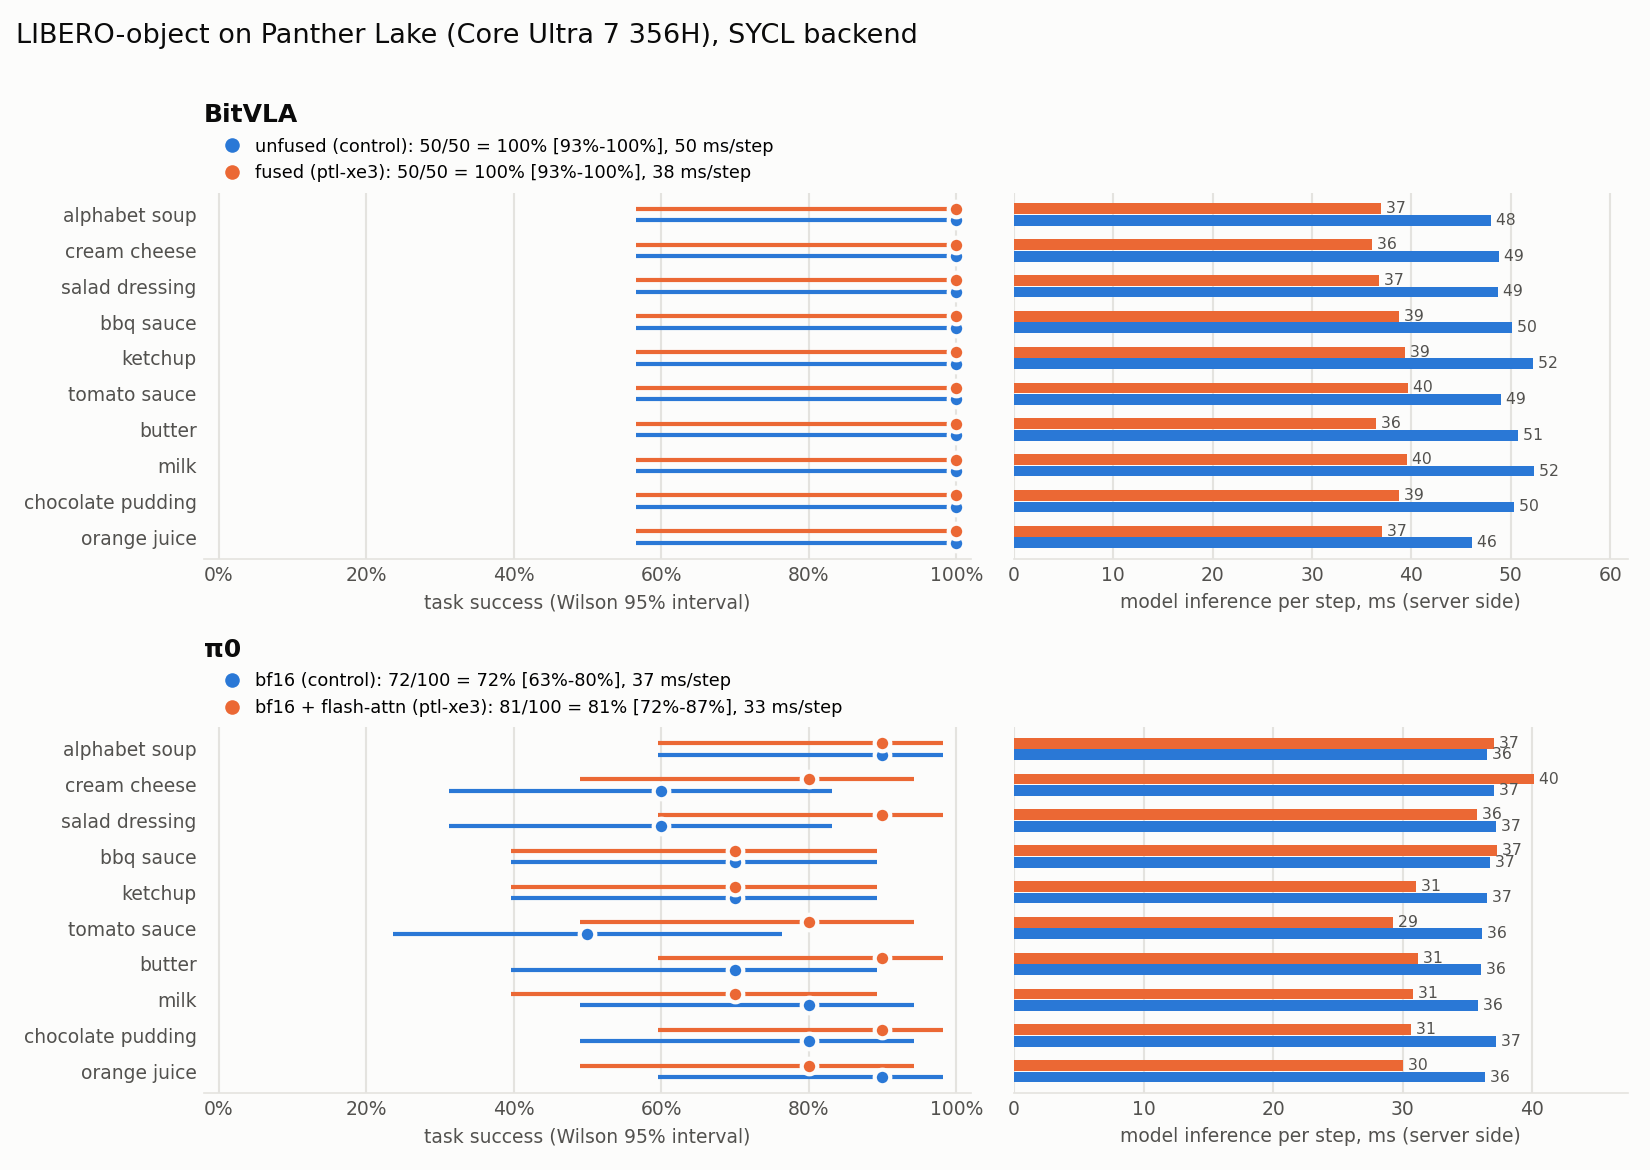
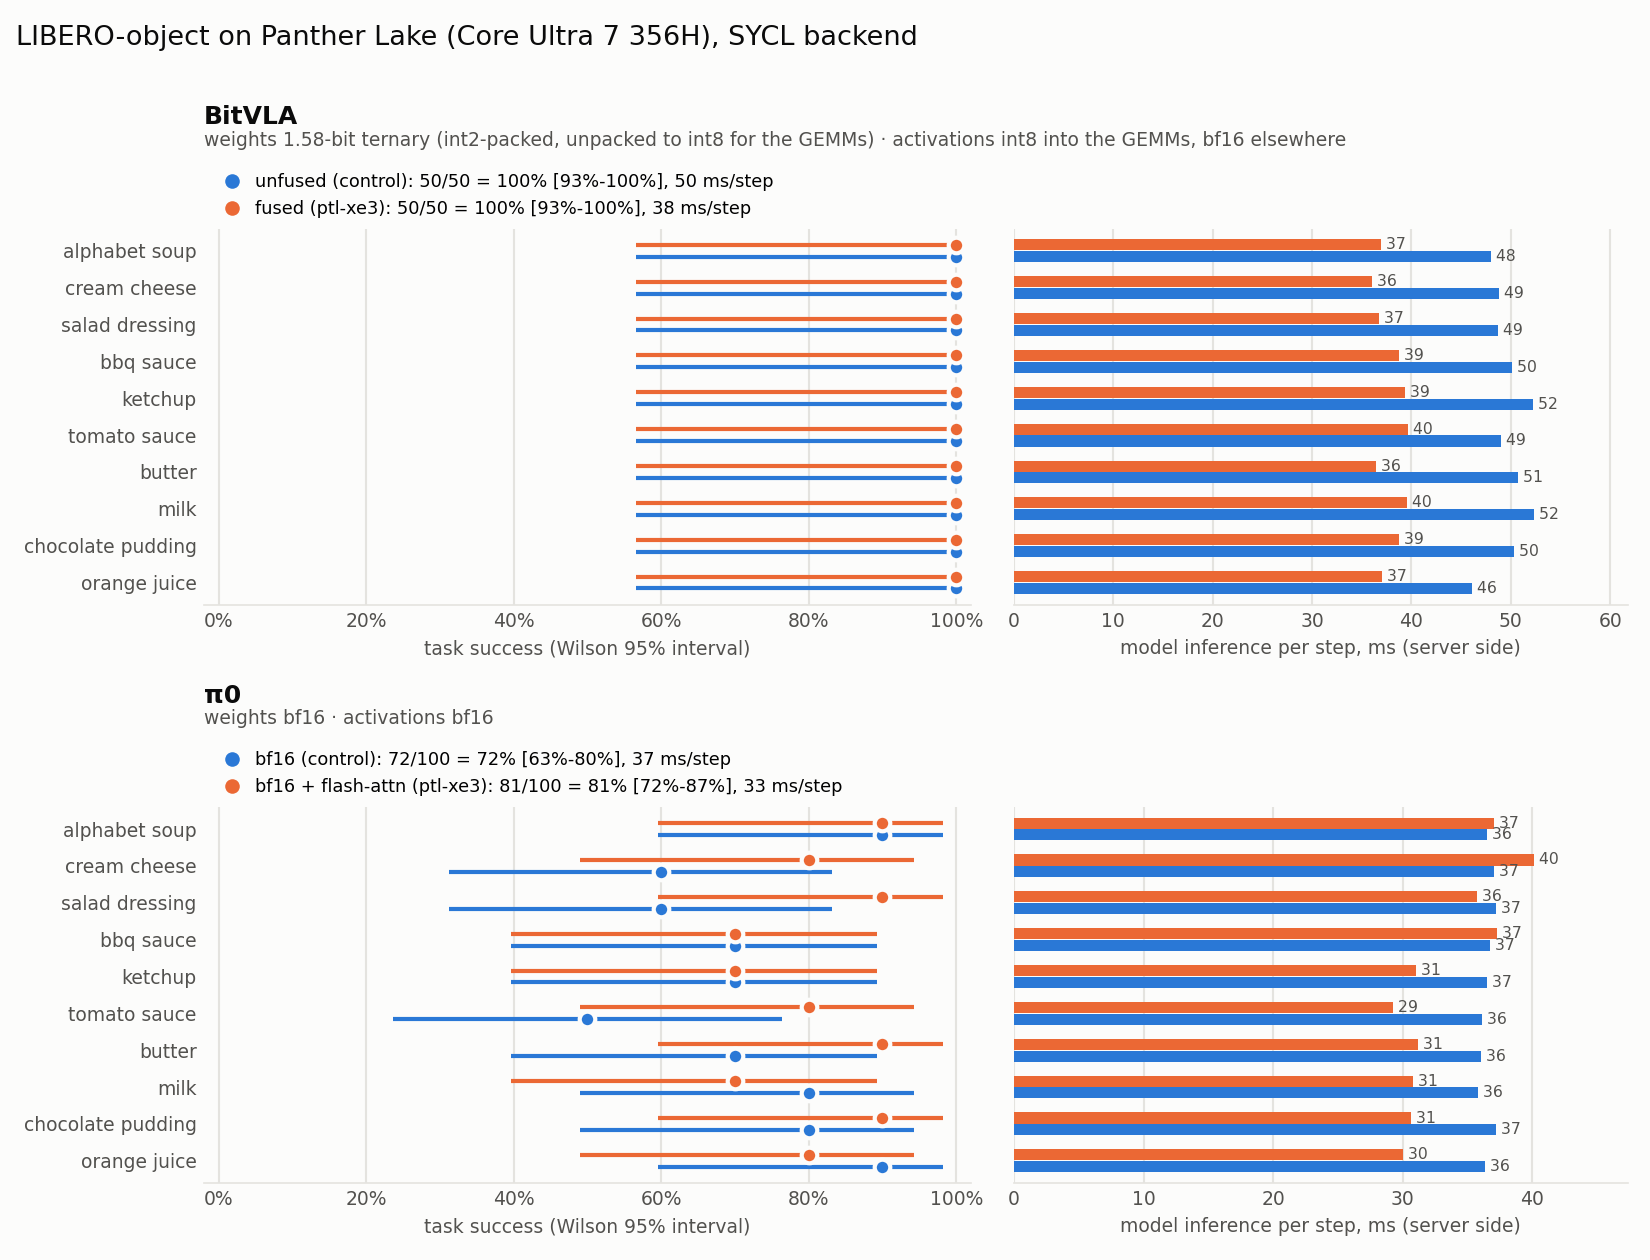
plot_libero_ptl: show each model's precision under its name
BitVLA: 1.58-bit ternary weights (int2-packed, unpacked to int8 for the
GEMMs), int8 activations into the GEMMs, bf16 elsewhere. pi0 / Evo-1:
bf16 weights and activations. Overridable with --precision MODEL=TEXT.

diff --git a/scripts/plot_libero_ptl.py b/scripts/plot_libero_ptl.py
@@ -52,6 +52,15 @@ wilson, load_arm, totals = _lb.wilson, _lb.load_arm, _lb.totals
 TASKS = ["alphabet soup", "cream cheese", "salad dressing", "bbq sauce", "ketchup",
          "tomato sauce", "butter", "milk", "chocolate pudding", "orange juice"]
 
+# What each model computes in, shown under its name. --precision MODEL=TEXT
+# overrides or adds one.
+PRECISION = {
+    "BitVLA": "weights 1.58-bit ternary (int2-packed, unpacked to int8 for the GEMMs) · "
+              "activations int8 into the GEMMs, bf16 elsewhere",
+    "π0": "weights bf16 · activations bf16",
+    "Evo-1": "weights bf16 · activations bf16",
+}
+
 # Reference categorical palette, slots 1-2 (validated pair: CVD dE 24.7).
 COLOURS = ["#2a78d6", "#eb6834"]
 SURFACE, INK, INK_2, GRID = "#fcfcfb", "#0b0b0b", "#52514e", "#e4e3df"
@@ -72,7 +81,12 @@ def main() -> int:
     ap.add_argument("--arm", action="append", required=True, metavar="MODEL:LABEL=PATH")
     ap.add_argument("--out", default="docs/img/libero_ptl")
     ap.add_argument("--title", default="LIBERO-object on Panther Lake (Core Ultra 7 356H), SYCL backend")
+    ap.add_argument("--precision", action="append", default=[], metavar="MODEL=TEXT")
     args = ap.parse_args()
+    precision = dict(PRECISION)
+    for spec in args.precision:
+        m, text = spec.split("=", 1)
+        precision[m] = text
 
     models: dict[str, list[tuple[str, dict]]] = {}
     for spec in args.arm:
@@ -81,7 +95,7 @@ def main() -> int:
         models.setdefault(model, []).append((label, load_arm(path, f"{model}/{label}")))
 
     n = len(models)
-    fig, axes = plt.subplots(n, 2, figsize=(11, 3.9 * n), squeeze=False,
+    fig, axes = plt.subplots(n, 2, figsize=(11, 4.2 * n), squeeze=False,
                              gridspec_kw={"width_ratios": [1.25, 1]})
     fig.patch.set_facecolor(SURFACE)
 
@@ -132,7 +146,14 @@ def main() -> int:
         ax_sr.set_xlabel("task success (Wilson 95% interval)", color=INK_2, fontsize=9)
         ax_ms.set_xlim(0, max(t["inf_ms"] for _, pt in arms for t in pt.values()) * 1.18)
         ax_ms.set_xlabel("model inference per step, ms (server side)", color=INK_2, fontsize=9)
-        ax_sr.set_title(model, loc="left", fontsize=12, color=INK, fontweight="bold", pad=34)
+        ax_sr.set_title(model, loc="left", fontsize=12, color=INK, fontweight="bold", pad=50)
+        if model in precision:
+            # Out of the layout: tight_layout would otherwise widen the left panel
+            # to fit the line and push the latency panel off to the right.
+            note = ax_sr.annotate(precision[model], xy=(0, 1), xycoords="axes fraction",
+                                  xytext=(0, 38), textcoords="offset points", fontsize=9,
+                                  color=INK_2, va="bottom", annotation_clip=False)
+            note.set_in_layout(False)
         ax_sr.legend(handles, labels, loc="lower left", bbox_to_anchor=(0, 1.0), frameon=False,
                      fontsize=8.5, ncol=1, borderaxespad=0.2, handletextpad=0.3)
 
